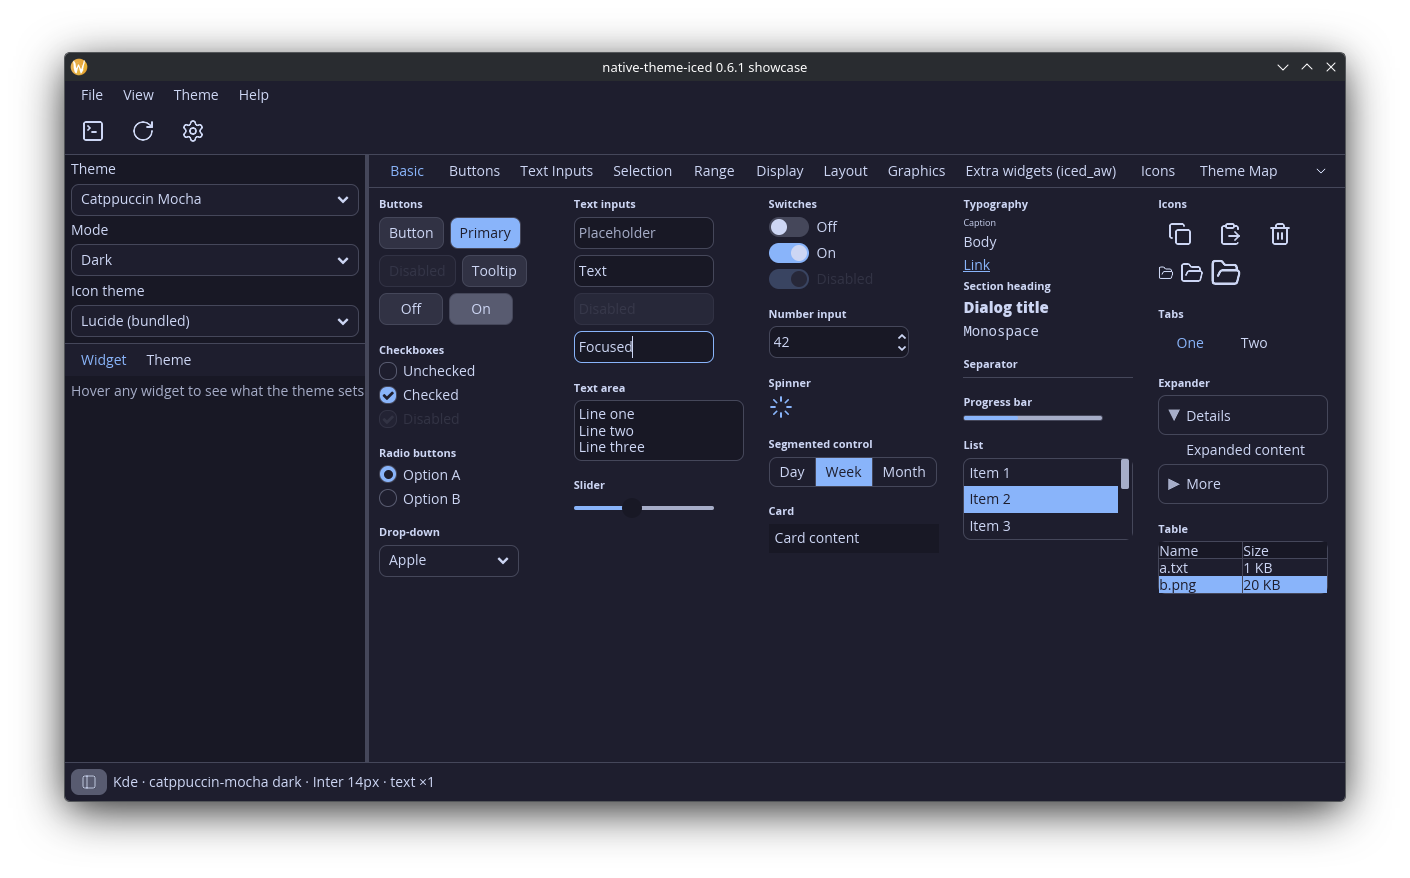
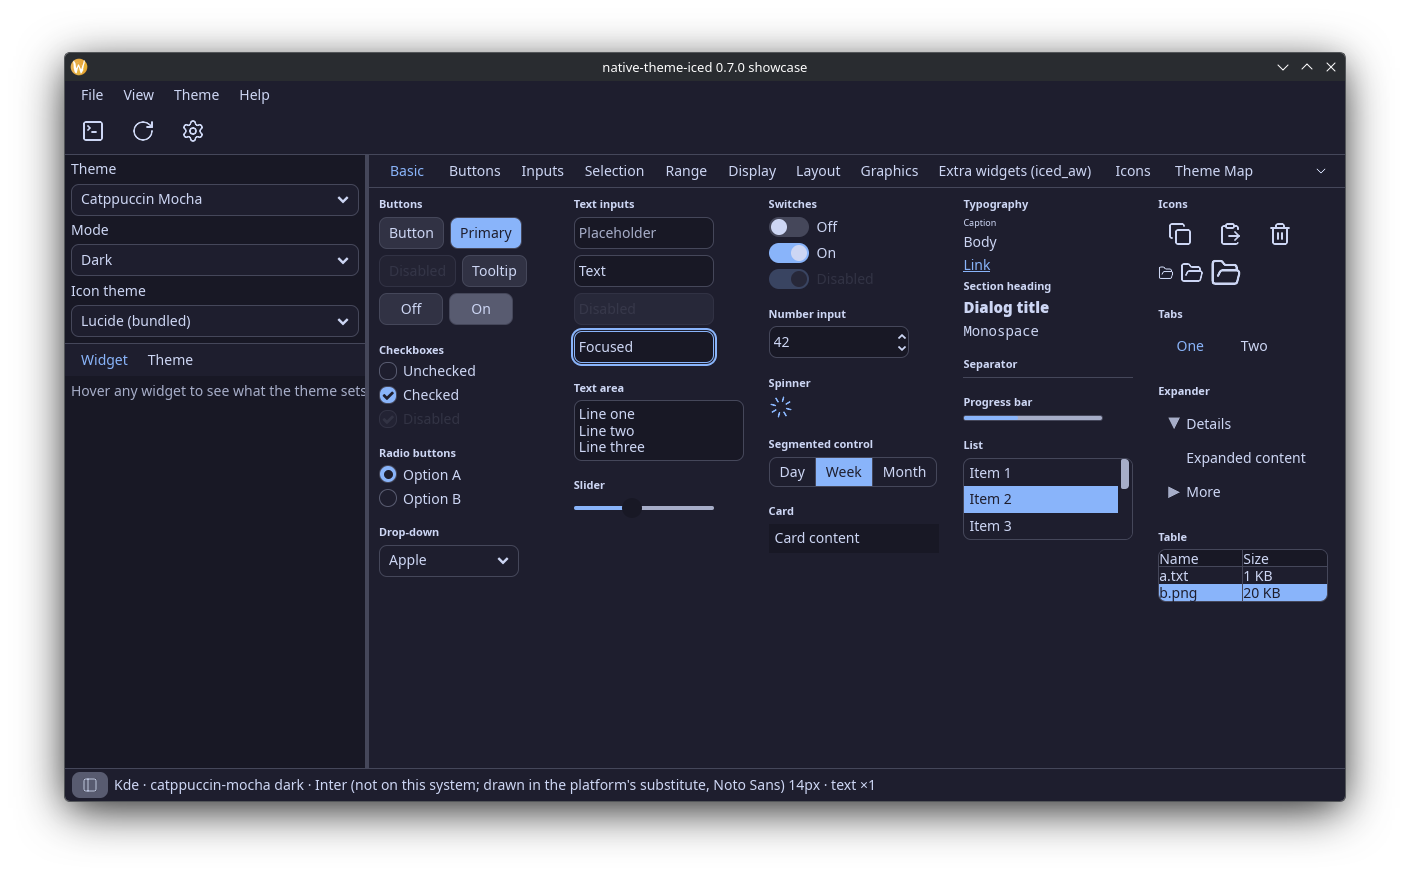
docs(assets): screenshots and the provenance and compatibility stamps regenerated from bcde8141 for the v0.7.0 release: material-3's captures named after its key, macos-monterey's replacing macos-sonoma's and macos-tahoe's added, the old PNGs removed and the three galleries linking the new

diff --git a/connectors/native-theme-iced/README.md b/connectors/native-theme-iced/README.md
@@ -927,15 +927,19 @@ in `docs/showcase-exceptions.toml`.
 
 ![KDE Breeze Dark](docs/assets/linux-kde-breeze-dark.png)
 ![KDE Breeze Light](docs/assets/linux-kde-breeze-light.png)
-![Material Dark](docs/assets/linux-material-dark.png)
-![Material Light](docs/assets/linux-material-light.png)
+![Material Dark](docs/assets/linux-material-3-dark.png)
+![Material Light](docs/assets/linux-material-3-light.png)
 ![Catppuccin Mocha Dark](docs/assets/linux-catppuccin-mocha-dark.png)
 ![Catppuccin Mocha Light](docs/assets/linux-catppuccin-mocha-light.png)
 
 ### macOS
 
-![macOS Sonoma Light](docs/assets/macos-macos-sonoma-light.png)
-![macOS Sonoma Dark](docs/assets/macos-macos-sonoma-dark.png)
+The `macos-monterey` preset, which covers macOS 12 to 15, and `macos-tahoe`, macOS 26's own look, both captured on GitHub's `macos-26` runner, macOS 26.6.2, so the Monterey pair shows that preset drawn on macOS 26.
+
+![macOS Monterey Light](docs/assets/macos-macos-monterey-light.png)
+![macOS Monterey Dark](docs/assets/macos-macos-monterey-dark.png)
+![macOS Tahoe Light](docs/assets/macos-macos-tahoe-light.png)
+![macOS Tahoe Dark](docs/assets/macos-macos-tahoe-dark.png)
 
 ### Windows
 

diff --git a/connectors/native-theme-egui/README.md b/connectors/native-theme-egui/README.md
@@ -624,15 +624,19 @@ showcases' captures do.
 
 ![KDE Breeze Dark](docs/assets/linux-kde-breeze-dark.png)
 ![KDE Breeze Light](docs/assets/linux-kde-breeze-light.png)
-![Material Dark](docs/assets/linux-material-dark.png)
-![Material Light](docs/assets/linux-material-light.png)
+![Material Dark](docs/assets/linux-material-3-dark.png)
+![Material Light](docs/assets/linux-material-3-light.png)
 ![Catppuccin Mocha Dark](docs/assets/linux-catppuccin-mocha-dark.png)
 ![Catppuccin Mocha Light](docs/assets/linux-catppuccin-mocha-light.png)
 
 ### macOS
 
-![macOS Sonoma Light](docs/assets/macos-macos-sonoma-light.png)
-![macOS Sonoma Dark](docs/assets/macos-macos-sonoma-dark.png)
+The `macos-monterey` preset, which covers macOS 12 to 15, and `macos-tahoe`, macOS 26's own look, both captured on GitHub's `macos-26` runner, macOS 26.6.2, so the Monterey pair shows that preset drawn on macOS 26.
+
+![macOS Monterey Light](docs/assets/macos-macos-monterey-light.png)
+![macOS Monterey Dark](docs/assets/macos-macos-monterey-dark.png)
+![macOS Tahoe Light](docs/assets/macos-macos-tahoe-light.png)
+![macOS Tahoe Dark](docs/assets/macos-macos-tahoe-dark.png)
 
 ### Windows
 

diff --git a/connectors/native-theme-gpui/README.md b/connectors/native-theme-gpui/README.md
@@ -964,9 +964,9 @@ every title is).
 
 ![KDE Breeze Dark](docs/assets/linux-kde-breeze-dark.png)
 
-![Material Light](docs/assets/linux-material-light.png)
+![Material Light](docs/assets/linux-material-3-light.png)
 
-![Material Dark](docs/assets/linux-material-dark.png)
+![Material Dark](docs/assets/linux-material-3-dark.png)
 
 ![Catppuccin Mocha Light](docs/assets/linux-catppuccin-mocha-light.png)
 
@@ -974,9 +974,15 @@ every title is).
 
 ### macOS
 
-![macOS Sonoma Light](docs/assets/macos-macos-sonoma-light.png)
+The `macos-monterey` preset, which covers macOS 12 to 15, and `macos-tahoe`, macOS 26's own look, both captured on GitHub's `macos-26` runner, macOS 26.6.2, so the Monterey pair shows that preset drawn on macOS 26.
 
-![macOS Sonoma Dark](docs/assets/macos-macos-sonoma-dark.png)
+![macOS Monterey Light](docs/assets/macos-macos-monterey-light.png)
+
+![macOS Monterey Dark](docs/assets/macos-macos-monterey-dark.png)
+
+![macOS Tahoe Light](docs/assets/macos-macos-tahoe-light.png)
+
+![macOS Tahoe Dark](docs/assets/macos-macos-tahoe-dark.png)
 
 ### Windows
 
